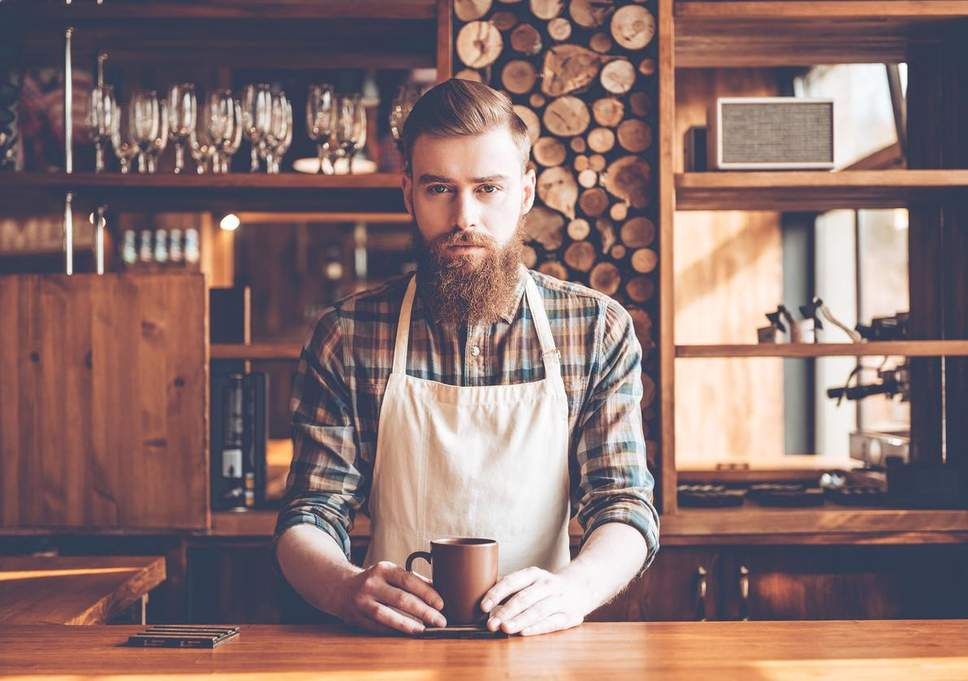
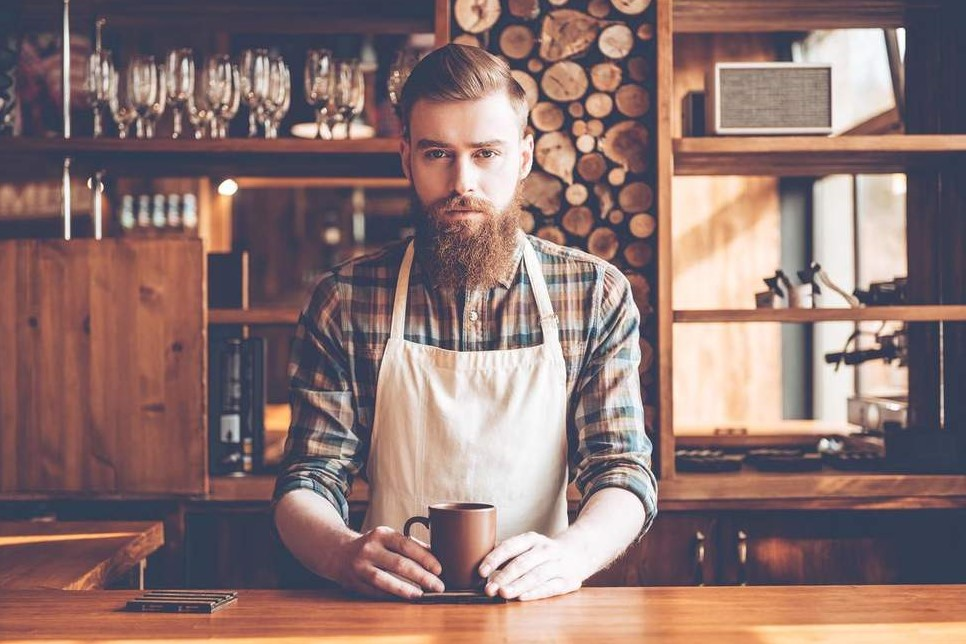
Fix picture ratios and remove duplicates

diff --git a/src/data/slideImages.js b/src/data/slideImages.js
@@ -31,11 +31,6 @@ const slideImages = [
     question: 'What is your aura?',
   },
   {
-    src: `${process.env.PUBLIC_URL}/assets/img/slideshow/place2.jpg`,
-    aura: 'lively',
-    question: 'What is your aura?',
-  },
-  {
     src: `${process.env.PUBLIC_URL}/assets/img/slideshow/place3.jpg`,
     aura: 'intimate',
     question: 'What is your aura?',
@@ -60,11 +55,6 @@ const slideImages = [
   {
     src: `${process.env.PUBLIC_URL}/assets/img/slideshow/place11.jpeg`,
     aura: 'classy',
-    question: 'What is your aura?',
-  },
-  {
-    src: `${process.env.PUBLIC_URL}/assets/img/slideshow/place12.jpeg`,
-    aura: 'hipster',
     question: 'What is your aura?',
   },
   // {
